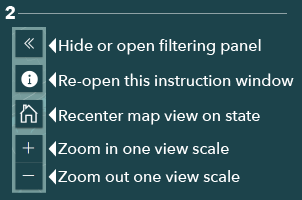
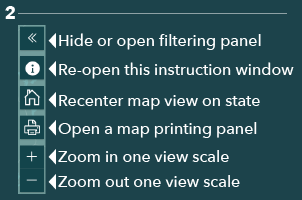
Print Fix

Changed region(s): [[0.0298, 0.12, 0.9834, 0.99]]

diff --git a/css/style.css b/css/style.css
@@ -136,7 +136,7 @@ body {
 }
 
 .btn.dropdown-toggle:hover {
-  background-color: #5c9d8675; /* Lighter shade for hover, adjust as needed */
+  background-color:#6ea572; /* Lighter shade for hover, adjust as needed */
   color: white; /* Adjust text color if needed */
   /* Add any other hover styles as required */
 }
@@ -164,7 +164,7 @@ body {
   font-size: 16px;
   font-weight: 400;
   border:#5c9d86;
-  margin-left: -4px;
+  
   color: white;
   justify-content: left;
   background-color: #207380 ;
@@ -507,12 +507,7 @@ margin-top: -15px;
 
 /* Adjust padding, margins, or borders as needed */
 
-.esri-component.esri-widget--button {
-  position: absolute;
-  top: 50%; /* Adjust as needed */
-  left: 50%; /* Adjust as needed */
-  transform: translate(-50%, -50%);
-}
+
 
 /* Positioning expand icons at the left and right edges */
 .left-expand-icon, .right-expand-icon {

diff --git a/js/main.js b/js/main.js
@@ -2325,19 +2325,19 @@ closeBtn.addEventListener("click", function() {
   info.style.display = "none";
   expandWidget.collapse(); // also collapse the expand widget when close button is clicked
 });
-
+view.ui.add(new Home({
+  view: view
+}), "top-left");
 
 
 view.ui.add(new Expand({
-    view: view,
-    content: print,
-    expandIcon: "print",
-    expanded: false
+  view: view,
+  content: print,
+  expandIcon: "print",
+  expanded: false
 }), "top-left");
 
-view.ui.add(new Home({
-    view: view
-}), "top-left");
+
 
 var zoom = new Zoom({
   view: view
